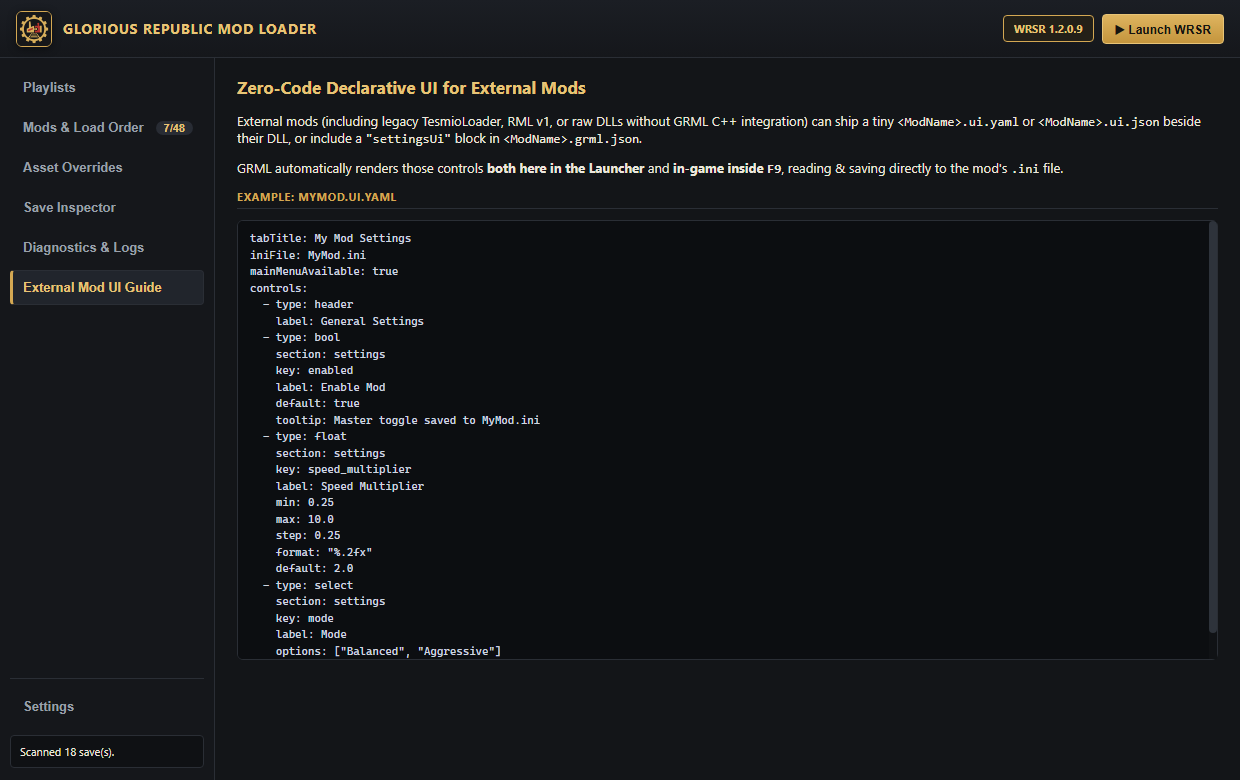
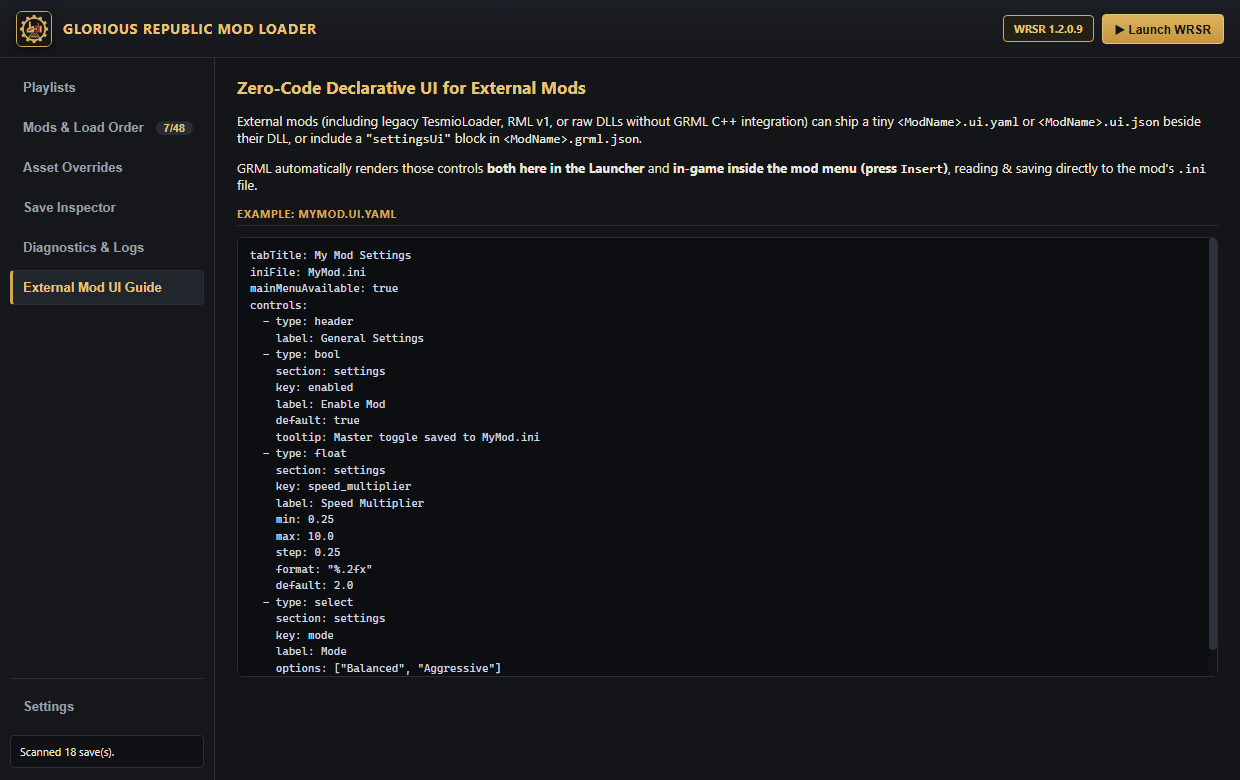
docs: clarify in-game mod menu phrasing in SchemaHelpView

Changed region(s): [[0.1839, 0.2154, 0.9806, 0.8615], [0.6129, 0.1846, 0.95, 0.2462], [0.95, 0.8, 0.9806, 0.8308]]

diff --git a/src/launcher-ui/web/src/lib/views/SchemaHelpView.svelte b/src/launcher-ui/web/src/lib/views/SchemaHelpView.svelte
@@ -1,4 +1,5 @@
 <script lang="ts">
+	import { app } from '$lib/stores/app.svelte';
 	import { SectionHeader } from '$lib/components/ui';
 
 	const exampleYaml = `tabTitle: My Mod Settings
@@ -39,7 +40,7 @@ controls:
 	</p>
 	<p>
 		GRML automatically renders those controls <strong>both here in the Launcher</strong> and
-		<strong>in-game inside <code>F9</code></strong>, reading &amp; saving directly to the mod's <code>.ini</code> file.
+		<strong>in-game inside the mod menu (press <code>{app.overlayHotkey}</code>)</strong>, reading &amp; saving directly to the mod's <code>.ini</code> file.
 	</p>
 	<SectionHeader title="Example: MyMod.ui.yaml" />
 	<pre class="code-block">{exampleYaml}</pre>
